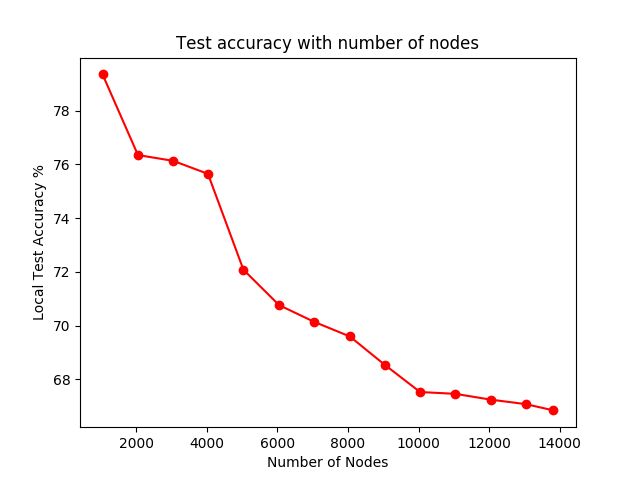
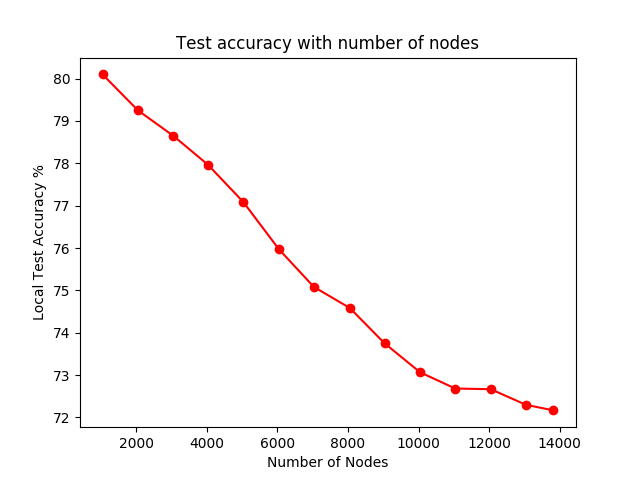
Saved medians for on the fly testing

diff --git a/Decision Trees/Decision_Trees.py b/Decision Trees/Decision_Trees.py
@@ -15,6 +15,7 @@ import itertools
 from sklearn.tree import DecisionTreeClassifier
 from sklearn.ensemble import RandomForestClassifier
 import matplotlib.pyplot as plt
+from copy import deepcopy
 
 # np.set_printoptions(threshold=np.inf)
 
@@ -48,8 +49,9 @@ def parseData(filename):
     return X
 
 def preProcessData(X):
+    medians = [0]*23
     for i in [0, 4] + range(11, 23):
-        median = np.median(X[:,i], axis=0)
+        median = np.median(X[:,i], axis=0); medians[i] = median
         for j in range(X.shape[0]):
             X[j,i] = 1 if X[j,i] >= median else 0 # Continuous to binary
     for j in range(X.shape[0]):
@@ -57,6 +59,7 @@ def preProcessData(X):
     for i in range(5, 11):
         for j in range(X.shape[0]):
             X[j,i] = X[j,i] + 2
+    return medians
 
 def oneHot(rng, val):
     if rng == 2:
@@ -113,9 +116,9 @@ class Node:
         self.parent = parent
         self.datacopy = Dat
         self.data = np.copy(Dat)
-        self.attributes = attributes
+        self.attributes = attributes; self.medians = []
         if CALC_LOCAL_MEDIAN and self.data.shape[1] != 0:
-            preProcessData(self.data)
+            self.medians = preProcessData(self.data)
         self.attr = None
         self.children = []
         self.pruned = False
@@ -161,12 +164,19 @@ class Node:
         if not self.isLeaf:
             self.split()
         
-    def test(self, dat):
+    def test(self, dat, dat1=[]):            
         if self.isLeaf:
             return self.prediction
         elif self.pruned:
             return self.parent.prediction
         else:
+            if CALC_LOCAL_MEDIAN:
+                index = 0;
+                if self.attr in [0, 4] + range(11, 23):
+                    index = 1 if dat1[self.attr] >= self.medians[self.attr] else 0
+                else:
+                    index = dat[self.attr]
+                return self.children[index].test(dat, dat1)
             return self.children[dat[self.attr]].test(dat)
         
     def numNodes(self):
@@ -180,11 +190,12 @@ class Node:
 
 def Test(tree, filename):
     TestData = parseData(filename)
+    TestDataUnProcessed = np.copy(TestData)
     preProcessData(TestData)
-    TestData = TestData.tolist()
+    TestData = TestData.tolist(); TestDataUnProcesses = TestDataUnProcessed.tolist()
     correct = 0; 
     for i in range(len(TestData)):
-        pred = tree.test(TestData[i])
+        pred = tree.test(TestData[i], TestDataUnProcessed[i])
         actual = TestData[i][-1]
         correct = correct + 1 if pred == actual else correct
     return 100*correct/(len(TestData)+0.0)
